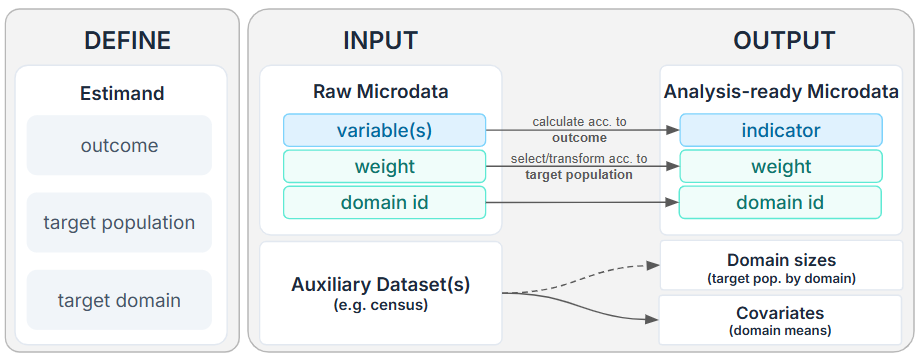
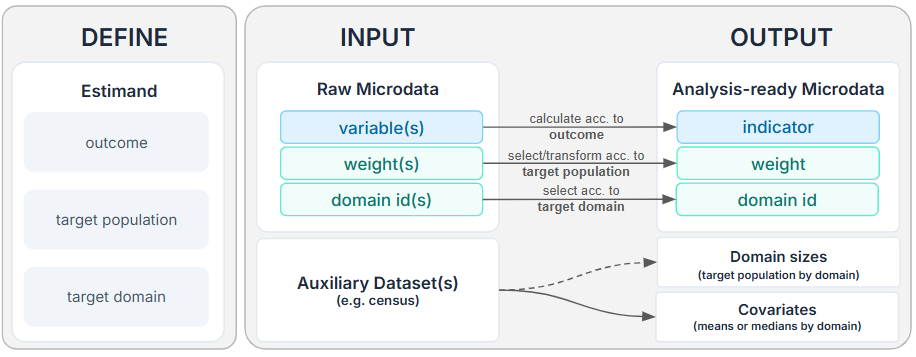
fixed wording on tutorial data prep

diff --git a/docs/pages/tutorial-dataprep.html b/docs/pages/tutorial-dataprep.html
@@ -365,13 +365,14 @@ pre > code.sourceCode > span > a:first-child::before { text-decoration: underlin
 
 </header>
 
-<p>This work example demonstrates the step-by-step of creating the appropriate input files for the Small-Area Estimation (SAE) workflow. In the process, we will also address the various decisions that researchers need to make.</p>
+<p>This work example demonstrates the step-by-step of creating the appropriate input files for the Small-Area Estimation (SAE) methods to follow. In the process, we will also address the various decisions that researchers need to make.</p>
 <section id="preparation" class="level2" data-number="1">
 <h2 data-number="1" class="anchored" data-anchor-id="preparation"><span class="header-section-number">1</span> Preparation</h2>
 <section id="understanding-the-dataset" class="level3" data-number="1.1">
 <h3 data-number="1.1" class="anchored" data-anchor-id="understanding-the-dataset"><span class="header-section-number">1.1</span> Understanding the dataset</h3>
-<p>The survey dataset used is created based on the <a href="https://datacatalogue.ukdataservice.ac.uk/studies/study/9144#details"><em>National Survey for Wales 2022-23</em></a>. The National Survey for Wales is a cross-sectional survey, conducted annually to provide a snapshot of the Welsh population, covering topics include health, education, climate change, visits to the outdoors, public service satisfaction, material deprivation, internet access, and the Welsh language.</p>
-<p>The survey dataset used is treated with <em>stratified randomisation</em> and <em>randomised upsampling</em> to both ensure data privacy and simluate a higher spatial resolution.</p>
+<p>The <a href="https://datacatalogue.ukdataservice.ac.uk/studies/study/9144#details"><em>National Survey for Wales 2022-23</em></a> is a cross-sectional survey, conducted annually to provide a snapshot of the Welsh population, covering topics include health, education, climate change, visits to the outdoors, public service satisfaction, material deprivation, internet access, and the Welsh language.</p>
+<p>The survey dataset used in this tutorial simulates the NSW respondent microdata, by treating it with <em>stratified randomisation</em> and <em>randomised upsampling</em> to both ensure data privacy and simulate a more granular saptial identifier for education purposes.</p>
+<p><img src="../assets/la_msoa_n.png" class="img-fluid"></p>
 <div class="callout callout-style-default callout-note callout-titled">
 <div class="callout-header d-flex align-content-center">
 <div class="callout-icon-container">
@@ -387,10 +388,9 @@ Note
 <li><strong>Stratified randomisation:</strong> Survey responses are first split by Local Authority and their variables randomised column-wise to preserve variable totals by Local Authority.</li>
 <li><strong>Randomised upsampling:</strong> Survey responses are assigned a random MSOA that intersects with their recorded Local Authority to simulate a higher-resolution dataset for tutorial purposes.</li>
 </ul>
-<p><img src="../assets/la_msoa_n.png" class="img-fluid"></p>
 </div>
 </div>
-<p>Finally, population-level data aggregated at MSOA and LA levels come from <a href="https://www.nomisweb.co.uk/sources/census_2021_bulk"><em>the UK Census 2021 datasets</em></a>, made available to download on the NOMIS UK website.</p>
+<p>Finally, auxiliary data aggregated at MSOA and LA levels come from <a href="https://www.nomisweb.co.uk/sources/census_2021_bulk"><em>the UK Census 2021 datasets</em></a>, made available to download on the NOMIS UK website.</p>
 </section>
 <section id="from-survey-indicators-to-estimands" class="level3" data-number="1.2">
 <h3 data-number="1.2" class="anchored" data-anchor-id="from-survey-indicators-to-estimands"><span class="header-section-number">1.2</span> From Survey Indicators to Estimands</h3>

diff --git a/docs/pages/prepare-inputs.html b/docs/pages/prepare-inputs.html
@@ -326,7 +326,7 @@ ul.task-list li input[type="checkbox"] {
 
 </header>
 
-<p>A raw survey dataset becomes cleaned microdata input ready for small area estimation through a clear estimand, a coded indicator, a target domain, a domain size, and a compatible survey weight.</p>
+<p>A raw survey dataset becomes analysis-ready microdata input through a clear estimand, a coded indicator, a target domain, a domain size, and a compatible survey weight. The data preparation pipeline can be summarised as follows:</p>
 <div class="quarto-figure quarto-figure-center">
 <figure class="figure">
 <p><img src="../assets/dataprep_summary.png" class="img-fluid figure-img"></p>
@@ -343,7 +343,7 @@ Note
 </div>
 </div>
 <div class="callout-body-container callout-body">
-<p><strong>Covariates selection and preparation</strong> from auxiliary datasets will be covered in subsequent chapters on model-based area-level estimation.</p>
+<p><strong>Covariates preparation</strong> from auxiliary datasets will be covered in subsequent chapters on model-based area-level estimation.</p>
 </div>
 </div>
 <section id="definie-the-estimands" class="level2" data-number="1">
@@ -491,7 +491,7 @@ Warning
 <li>a survey indicator file with one row per sampled unit and the fields <code>unit_id</code>, <code>domain_id</code>, <code>indicator</code>, and <code>weight</code>;</li>
 <li>a domain-size file with one row per target domain and the fields <code>domain_id</code>, <code>domain_size</code> (optionally, <code>domain_name</code>);</li>
 </ol>
-<p>The next workbook will demonstrate a worked exampe of Small-Area Estimation data preparation using a modified National Survey for Wales 2022-2023 respondent dataset.</p>
+<p>The next workbook will demonstrate a worked example using a simulated National Survey for Wales 2022-2023 respondent microdata.</p>
 
 
 </section>